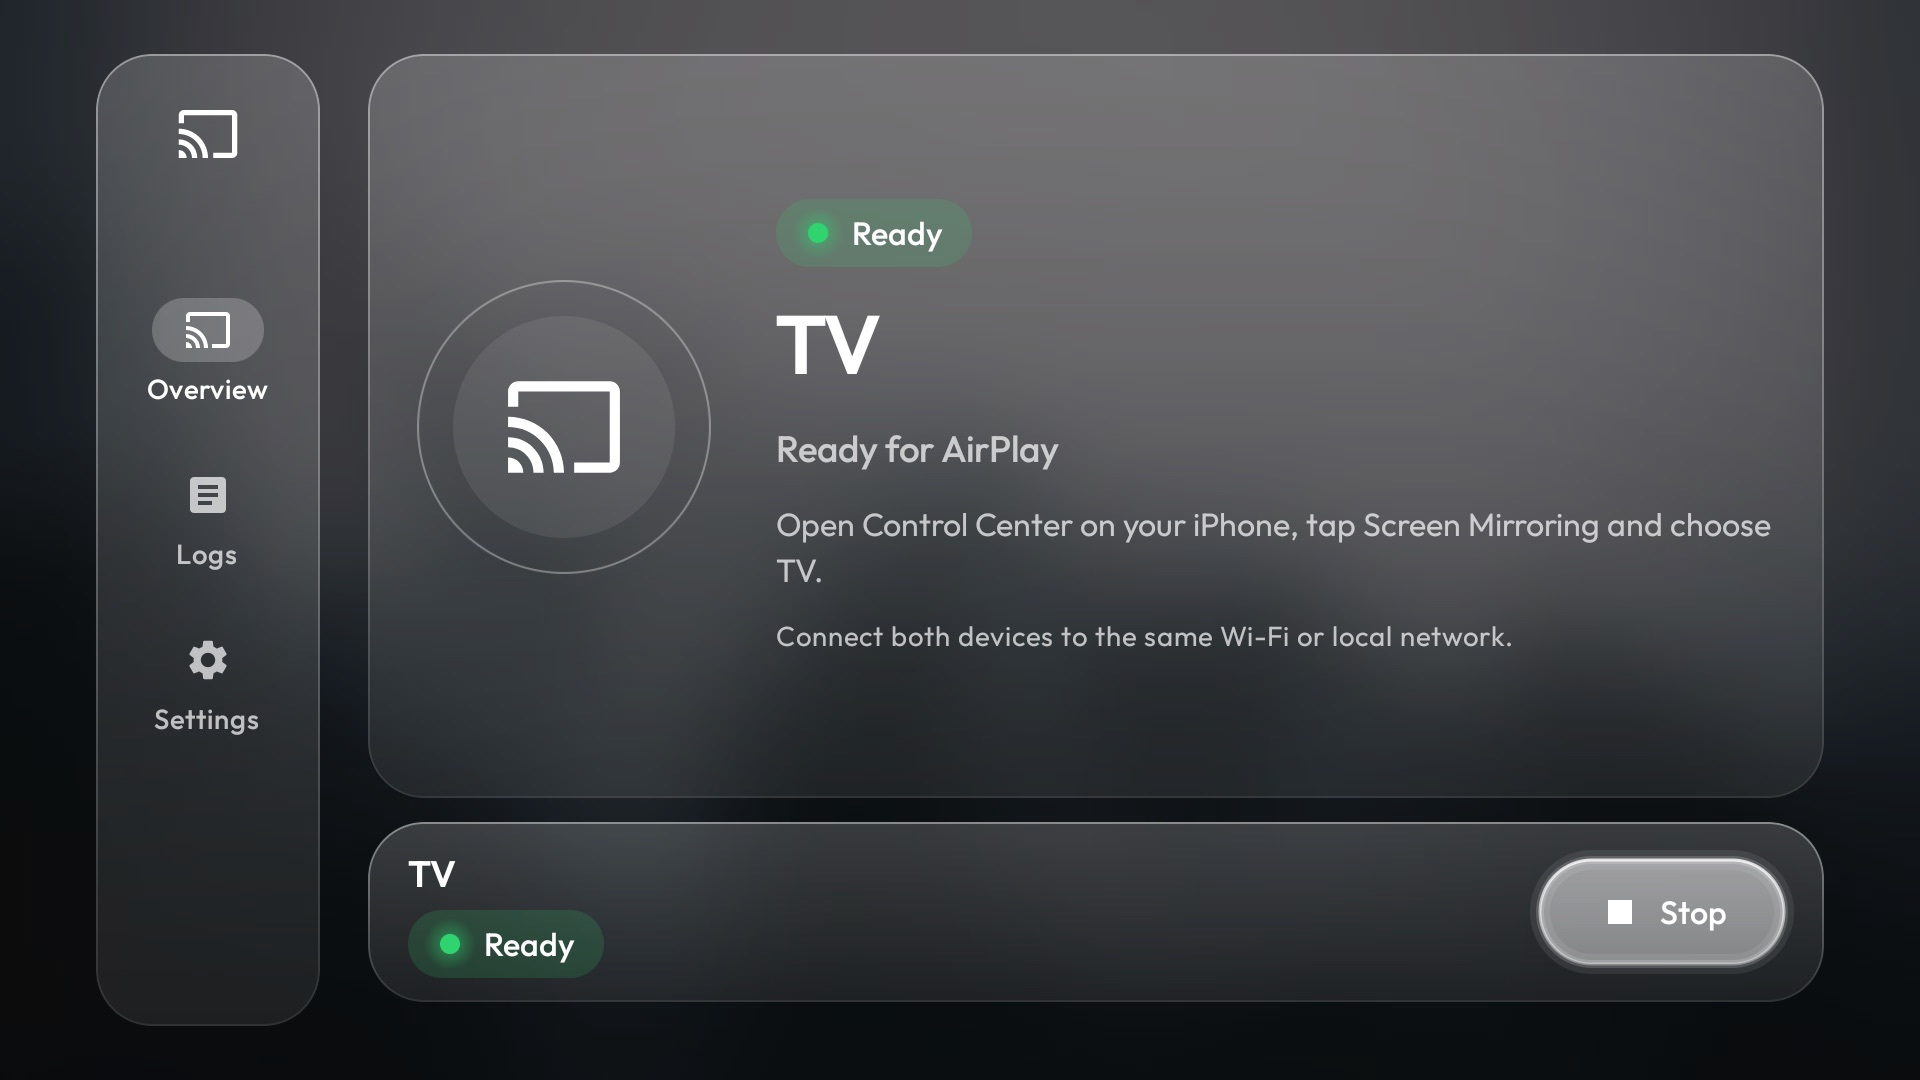
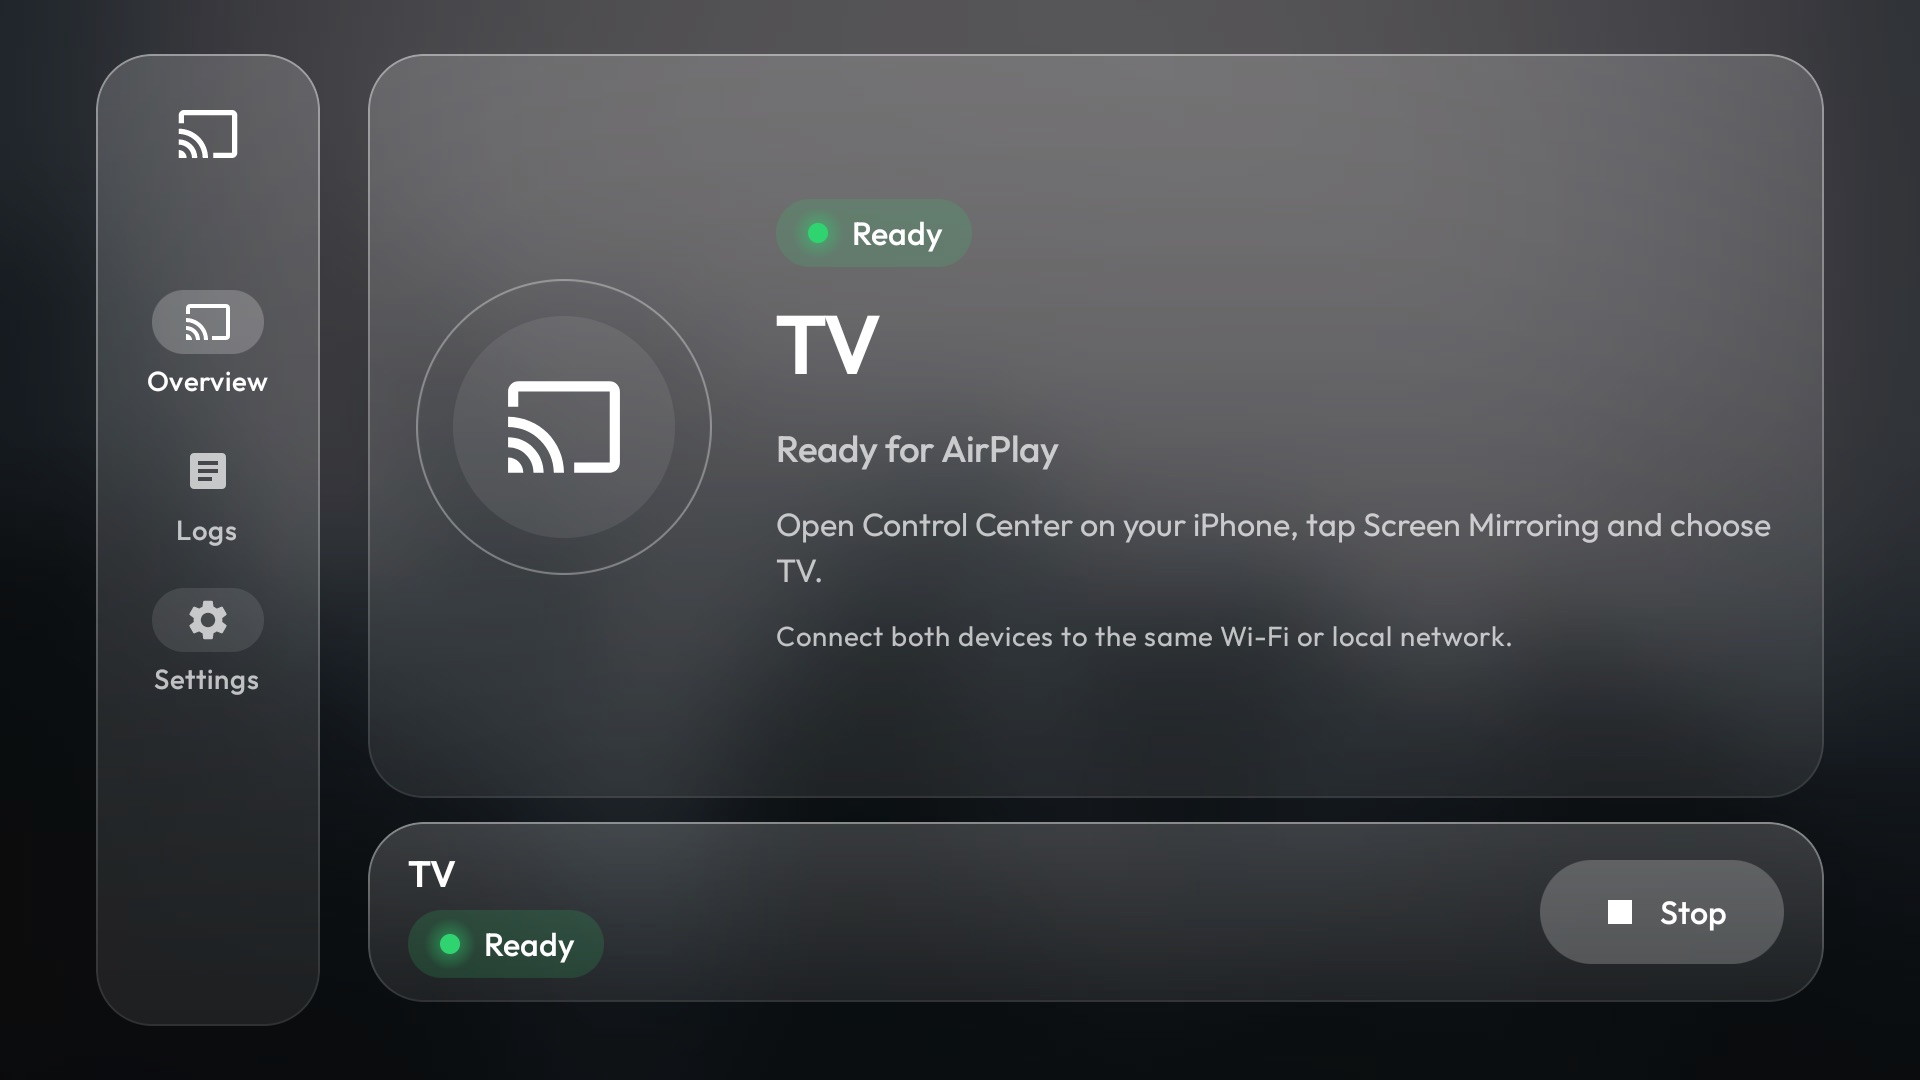
Simpler selection style and no rectangular click overlay
One soft rounded fill for the focused row or button, nothing else. The menu icons keep only the pill behind the icon.
The default click overlay behind settings rows is switched off. Version 2.0.1-glass.3.

diff --git a/app/src/main/kotlin/io/github/jqssun/airplay/ui/SettingsScreen.kt b/app/src/main/kotlin/io/github/jqssun/airplay/ui/SettingsScreen.kt
@@ -17,6 +17,7 @@ import androidx.compose.ui.Alignment
 import androidx.compose.ui.Modifier
 import androidx.compose.ui.focus.onFocusChanged
 import androidx.compose.foundation.background
+import androidx.compose.foundation.interaction.MutableInteractionSource
 import androidx.compose.foundation.clickable
 import androidx.compose.foundation.selection.selectable
 import androidx.compose.foundation.shape.CircleShape
@@ -145,6 +146,7 @@ fun SettingsScreen(viewModel: MainViewModel) {
                     modifier = Modifier
                         .dpadFocus(FocusShape, focusScale = 1f)
                         .toggleable(
+                            interactionSource = remember { MutableInteractionSource() }, indication = null,
                             value = launchOnConnect,
                             role = Role.Switch,
                             onValueChange = {
@@ -490,7 +492,7 @@ private fun SettingsRow(
 @Composable
 private fun AdvancedHeader(open: Boolean, onToggle: () -> Unit) {
     SettingsRow(
-        modifier = Modifier.dpadFocus(FocusShape, focusScale = 1f).clickable(onClick = onToggle),
+        modifier = Modifier.dpadFocus(FocusShape, focusScale = 1f).clickable(interactionSource = remember { MutableInteractionSource() }, indication = null, onClick = onToggle),
         headlineContent = { Text(stringResource(R.string.section_advanced)) },
         supportingContent = { Text(stringResource(R.string.section_advanced_desc)) },
         trailingContent = {
@@ -553,7 +555,10 @@ private fun <T> GlassSegmented(options: List<Pair<T, String>>, selected: T, onSe
                     .dpadFocus(CircleShape, focusScale = 1f)
                     .clip(CircleShape)
                     .background(if (chosen) g.pill else Color.Transparent)
-                    .selectable(selected = chosen, role = Role.RadioButton, onClick = { onSelect(value) })
+                    .selectable(
+                        selected = chosen, role = Role.RadioButton, onClick = { onSelect(value) },
+                        interactionSource = remember { MutableInteractionSource() }, indication = null,
+                    )
                     .padding(horizontal = 22.dp, vertical = 10.dp),
                 contentAlignment = Alignment.Center,
             ) {
@@ -820,7 +825,10 @@ private fun SettingSwitch(
     SettingsRow(
         modifier = Modifier
             .dpadFocus(FocusShape, focusScale = 1f)
-            .toggleable(value = checked, role = Role.Switch, onValueChange = onCheckedChange),
+            .toggleable(
+                interactionSource = remember { MutableInteractionSource() }, indication = null,
+                value = checked, role = Role.Switch, onValueChange = onCheckedChange,
+            ),
         headlineContent = { Text(title) },
         supportingContent = { Text(description) },
         trailingContent = { Switch(checked = checked, onCheckedChange = null, colors = glassSwitchColors()) }

diff --git a/app/src/main/kotlin/io/github/jqssun/airplay/ui/TvFocus.kt b/app/src/main/kotlin/io/github/jqssun/airplay/ui/TvFocus.kt
@@ -10,9 +10,7 @@ import androidx.compose.runtime.remember
 import androidx.compose.runtime.setValue
 import androidx.compose.runtime.withFrameNanos
 import androidx.compose.ui.Modifier
-import androidx.compose.ui.draw.drawWithContent
-import androidx.compose.ui.graphics.Brush
-import androidx.compose.ui.graphics.drawscope.Stroke
+import androidx.compose.ui.draw.drawBehind
 import androidx.compose.ui.graphics.drawOutline
 import androidx.compose.ui.graphics.graphicsLayer
 import androidx.compose.ui.focus.FocusRequester
@@ -24,39 +22,21 @@ import androidx.compose.ui.unit.dp
 inline fun Modifier.thenIf(condition: Boolean, block: Modifier.() -> Modifier): Modifier =
     if (condition) block() else this
 
-/**
- * Focus look that belongs to the glass theme: the element lights up like a lit pane of glass (brighter translucent
- * fill, a thin specular edge, a faint soft glow) instead of getting a hard outline. The glow stays within a few dp of
- * the element so panels never clip it.
- */
+/** Selection: one soft rounded fill behind the focused element. No outline, no glow. */
 @Composable
 fun Modifier.focusRing(
     shape: Shape = CircleShape,
-    focusScale: Float = 1.035f,
+    focusScale: Float = 1f,
 ): Modifier {
     val g = LocalGlass.current
     var focused by remember { mutableStateOf(false) }
-    val lit by animateFloatAsState(if (focused) 1f else 0f, tween(180), label = "focusLit")
-    val scale by animateFloatAsState(if (focused) focusScale else 1f, tween(180), label = "focusScale")
+    val lit by animateFloatAsState(if (focused) 1f else 0f, tween(140), label = "focusLit")
+    val scale by animateFloatAsState(if (focused) focusScale else 1f, tween(140), label = "focusScale")
     return this
         .onFocusChanged { focused = it.hasFocus }
         .graphicsLayer { scaleX = scale; scaleY = scale }
-        .drawWithContent {
-            val outline = shape.createOutline(size, layoutDirection, this)
-            if (lit > 0f) {
-                val glow = 4.dp.toPx()
-                drawOutline(outline, g.focusGlow, alpha = g.focusGlowAlpha * 0.5f * lit, style = Stroke(width = glow * 2.5f))
-                drawOutline(outline, g.focusGlow, alpha = g.focusGlowAlpha * lit, style = Stroke(width = glow))
-                drawOutline(outline, Brush.verticalGradient(listOf(g.focusFillTop, g.focusFillBottom)), alpha = lit)
-            }
-            drawContent()
-            if (lit > 0f) {
-                drawOutline(outline, g.focusHairline, alpha = lit, style = Stroke(width = 1.dp.toPx()))
-                drawOutline(
-                    outline, Brush.verticalGradient(listOf(g.focusEdgeTop, g.focusEdgeBottom)),
-                    alpha = lit, style = Stroke(width = 1.5.dp.toPx()),
-                )
-            }
+        .drawBehind {
+            if (lit > 0f) drawOutline(shape.createOutline(size, layoutDirection, this), g.focusFill, alpha = lit)
         }
 }
 

diff --git a/app/src/main/kotlin/io/github/jqssun/airplay/ui/Glass.kt b/app/src/main/kotlin/io/github/jqssun/airplay/ui/Glass.kt
@@ -37,14 +37,8 @@ data class GlassColors(
     val textDim: Color,
     val scrim: Color,
     val wallpaper: Int,
-    // focus: a lit pane of glass
-    val focusFillTop: Color,
-    val focusFillBottom: Color,
-    val focusEdgeTop: Color,
-    val focusEdgeBottom: Color,
-    val focusHairline: Color,
-    val focusGlow: Color,
-    val focusGlowAlpha: Float,
+    // the selected row or button: one soft fill, nothing else
+    val focusFill: Color,
 )
 
 val DarkGlass = GlassColors(
@@ -59,13 +53,7 @@ val DarkGlass = GlassColors(
     textDim = Color(0xB3FFFFFF),
     scrim = Color(0x59000000),
     wallpaper = R.drawable.glass_bg_dark,
-    focusFillTop = Color(0x52FFFFFF),
-    focusFillBottom = Color(0x33FFFFFF),
-    focusEdgeTop = Color(0xCCFFFFFF),
-    focusEdgeBottom = Color(0x4DFFFFFF),
-    focusHairline = Color(0x00000000),
-    focusGlow = Color.White,
-    focusGlowAlpha = 0.16f,
+    focusFill = Color(0x2EFFFFFF),
 )
 
 val LightGlass = GlassColors(
@@ -80,13 +68,7 @@ val LightGlass = GlassColors(
     textDim = Color(0x99111114),
     scrim = Color(0x26FFFFFF),
     wallpaper = R.drawable.glass_bg_light,
-    focusFillTop = Color(0xF5FFFFFF),
-    focusFillBottom = Color(0xE0FFFFFF),
-    focusEdgeTop = Color.White,
-    focusEdgeBottom = Color(0x99FFFFFF),
-    focusHairline = Color(0x14000000),
-    focusGlow = Color(0xFF1A1A2E),
-    focusGlowAlpha = 0.09f,
+    focusFill = Color(0x1F000000),
 )
 
 val LocalGlass = staticCompositionLocalOf { DarkGlass }

diff --git a/app/src/main/kotlin/io/github/jqssun/airplay/ui/MainScreen.kt b/app/src/main/kotlin/io/github/jqssun/airplay/ui/MainScreen.kt
@@ -590,8 +590,7 @@ fun MainScreen(
                                 icon = { Icon(t.icon, null) },
                                 label = { Text(stringResource(t.labelRes)) },
                                 colors = glassNavColors(),
-                                modifier = Modifier.padding(vertical = 6.dp).dpadFocus(RoundedCornerShape(28.dp), focusScale = 1f)
-                                    .padding(horizontal = 6.dp, vertical = 4.dp),
+                                modifier = Modifier.padding(vertical = 6.dp),
                             )
                         }
                     }
@@ -788,7 +787,7 @@ private fun OverviewContent(
                     ),
                     shape = CircleShape,
                     contentPadding = PaddingValues(horizontal = 28.dp, vertical = 12.dp),
-                    modifier = Modifier.heightIn(min = 52.dp).dpadFocus(CircleShape, focusScale = 1f).focusRequester(startFocus)
+                    modifier = Modifier.heightIn(min = 52.dp).dpadFocus(CircleShape, focusScale = 1.06f).focusRequester(startFocus)
                 ) {
                     Icon(
                         imageVector = if (state == ServerState.RUNNING) Icons.Default.Stop else Icons.Default.PlayArrow,

diff --git a/app/src/main/kotlin/io/github/jqssun/airplay/ui/Tv.kt b/app/src/main/kotlin/io/github/jqssun/airplay/ui/Tv.kt
@@ -31,7 +31,7 @@ fun isTv(): Boolean {
     return remember(ctx) { ctx.isTvDevice() }
 }
 
-fun Modifier.dpadFocus(shape: Shape = RoundedCornerShape(12.dp), focusScale: Float = 1.035f): Modifier = composed {
+fun Modifier.dpadFocus(shape: Shape = RoundedCornerShape(12.dp), focusScale: Float = 1f): Modifier = composed {
     focusRing(shape = shape, focusScale = focusScale)
 }
 

diff --git a/README.md b/README.md
@@ -5,7 +5,7 @@ screen on the TV, with sound. No Apple TV needed.
 
 <p>
 <img src="screenshots/overview.jpg" width="49%" alt="Overview: the status dot glows green when the receiver is ready">
-<img src="screenshots/settings.jpg" width="49%" alt="Settings: the focused option is lit like a pane of glass">
+<img src="screenshots/settings.jpg" width="49%" alt="Settings: the selected row gets a soft highlight">
 </p>
 
 This is a fork of [Shield AirPlay](https://github.com/ebreen/shield-airplay) by ebreen, which is itself a derivative of
@@ -18,7 +18,7 @@ changes is the interface and the defaults. See [CHANGES.md](CHANGES.md).
 ## What is different
 
 - **New interface.** Frosted glass panels over a blurred wallpaper, Outfit font, light and dark themes. The option you
-  have selected is lit like a pane of glass (no hard outline) and is never clipped. The status dot glows green when the
+  have selected gets one soft highlight, nothing else (the menu icons use a small pill). The status dot glows green when the
   receiver is ready or streaming, yellow while a device is connecting, and red when stopped or in error.
 - **Minimal settings.** The first screen has only what most people need: the receiver name, start at boot, run in
   background, require a PIN, open on connect and the theme. Everything else is under **Advanced**.

diff --git a/CHANGES.md b/CHANGES.md
@@ -22,3 +22,10 @@ code are unchanged.
   glow) instead of a hard outline (`ui/TvFocus.kt`, colours in `ui/Glass.kt`).
 - Status chip: the dot glows green (ready or connected), yellow and breathing (a device is connecting) or red (stopped
   or error); new string `connecting_label`.
+
+## 2.0.1-glass.3
+
+- Simpler selection: a single soft rounded fill behind the focused row or button, no outline, glow or scaling (the
+  Start/Stop button grows slightly). The menu icons use only the pill behind the icon.
+- The default Android click overlay (a rectangle behind settings rows) is switched off for rows, toggles and the theme
+  control.
